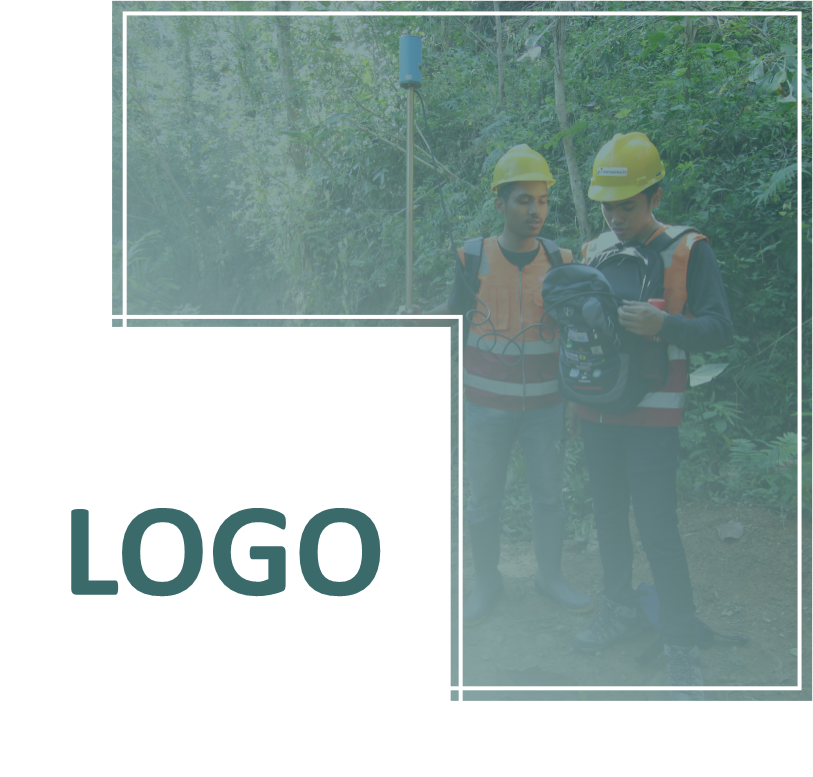
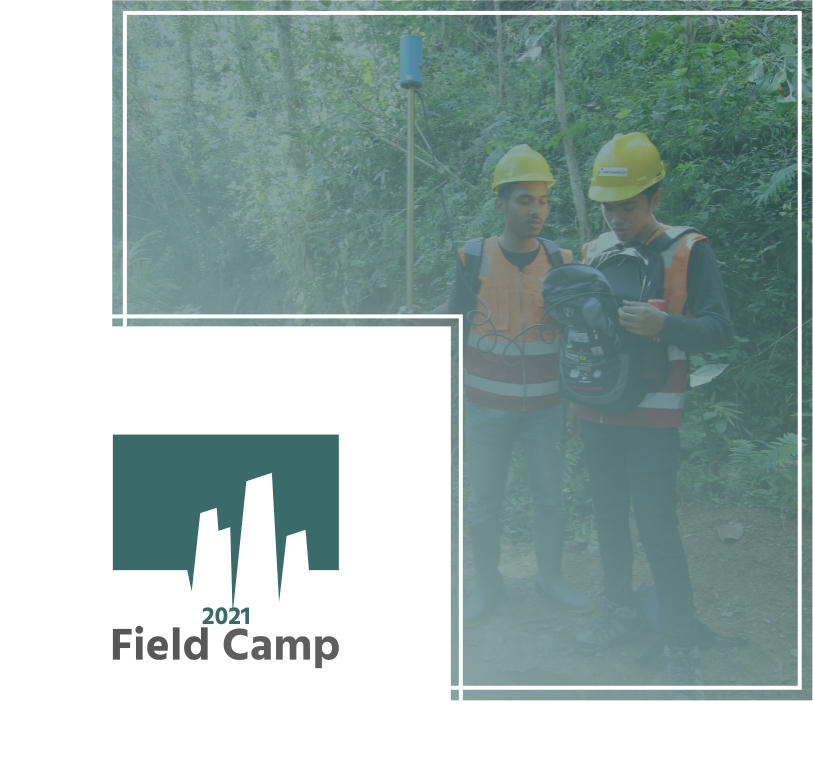
main

diff --git a/2021.html b/2021.html
@@ -11,6 +11,9 @@
 
     <title>Geophysics | Field Camp 2021</title>
 
+      <!-- Favicons -->
+    <link href="assets/images/logo_small.png" rel="icon">
+
     <!-- Additional CSS Files -->
     <link rel="stylesheet" type="text/css" href="assets/css/bootstrap.min.css">
 
@@ -43,7 +46,7 @@
                   <nav class="main-nav">
                       <!-- ***** Logo Start ***** -->
                       <a href="2021.html" class="logo">
-                        (logo) FC 2021
+                        <img height="50px" src="assets/images/logo.png">
                       </a>
                       <!-- ***** Logo End ***** -->
                       <!-- ***** Menu Start ***** -->
@@ -189,6 +192,8 @@
               <div class="right-text offset-lg-1 col-lg-6 col-md-12 col-sm-12 mobile-bottom-fix">
                 <div class="center-heading">
                   <h2>Field <em>Methods</em></h2>
+                  <p>Suspendisse vitae laoreet mauris. Fusce a nisi dapibus, euismod purus non, convallis odio.
+                    Donec vitae magna ornare, pellentesque ex vitae, aliquet urna.</p>
                 </div>
                 <div class="owl-carousel">
                   <ul>

diff --git a/assets/css/fieldcamp21.css b/assets/css/fieldcamp21.css
@@ -214,12 +214,12 @@ button.main-button:hover {
   font-weight: 700;
   color: #1e1e1e;
   margin-bottom: 25px;
+  border-bottom: 3px double #3a6a6a;
 }
 
 .center-heading h2 em {
   font-style: normal;
   color: #3a6a6a;
-  border-bottom: 3px double #3a6a6a;
 }
 
 .center-heading p {
@@ -251,8 +251,7 @@ header
 }
 
 .background-header .main-nav .nav li:hover a {
-  color: white!important;
-  background-color: #3a6a6a;
+  border-bottom: 3px solid #3a6a6a;
 }
 
 .background-header .nav li a.active {
@@ -292,6 +291,9 @@ header
   transition: all 0.3s ease 0s;
 }
 
+.header-area .main-nav .logo img:hover {
+  filter: brightness(120%);
+}
 
 .header-area .main-nav .nav {
   float: left;
